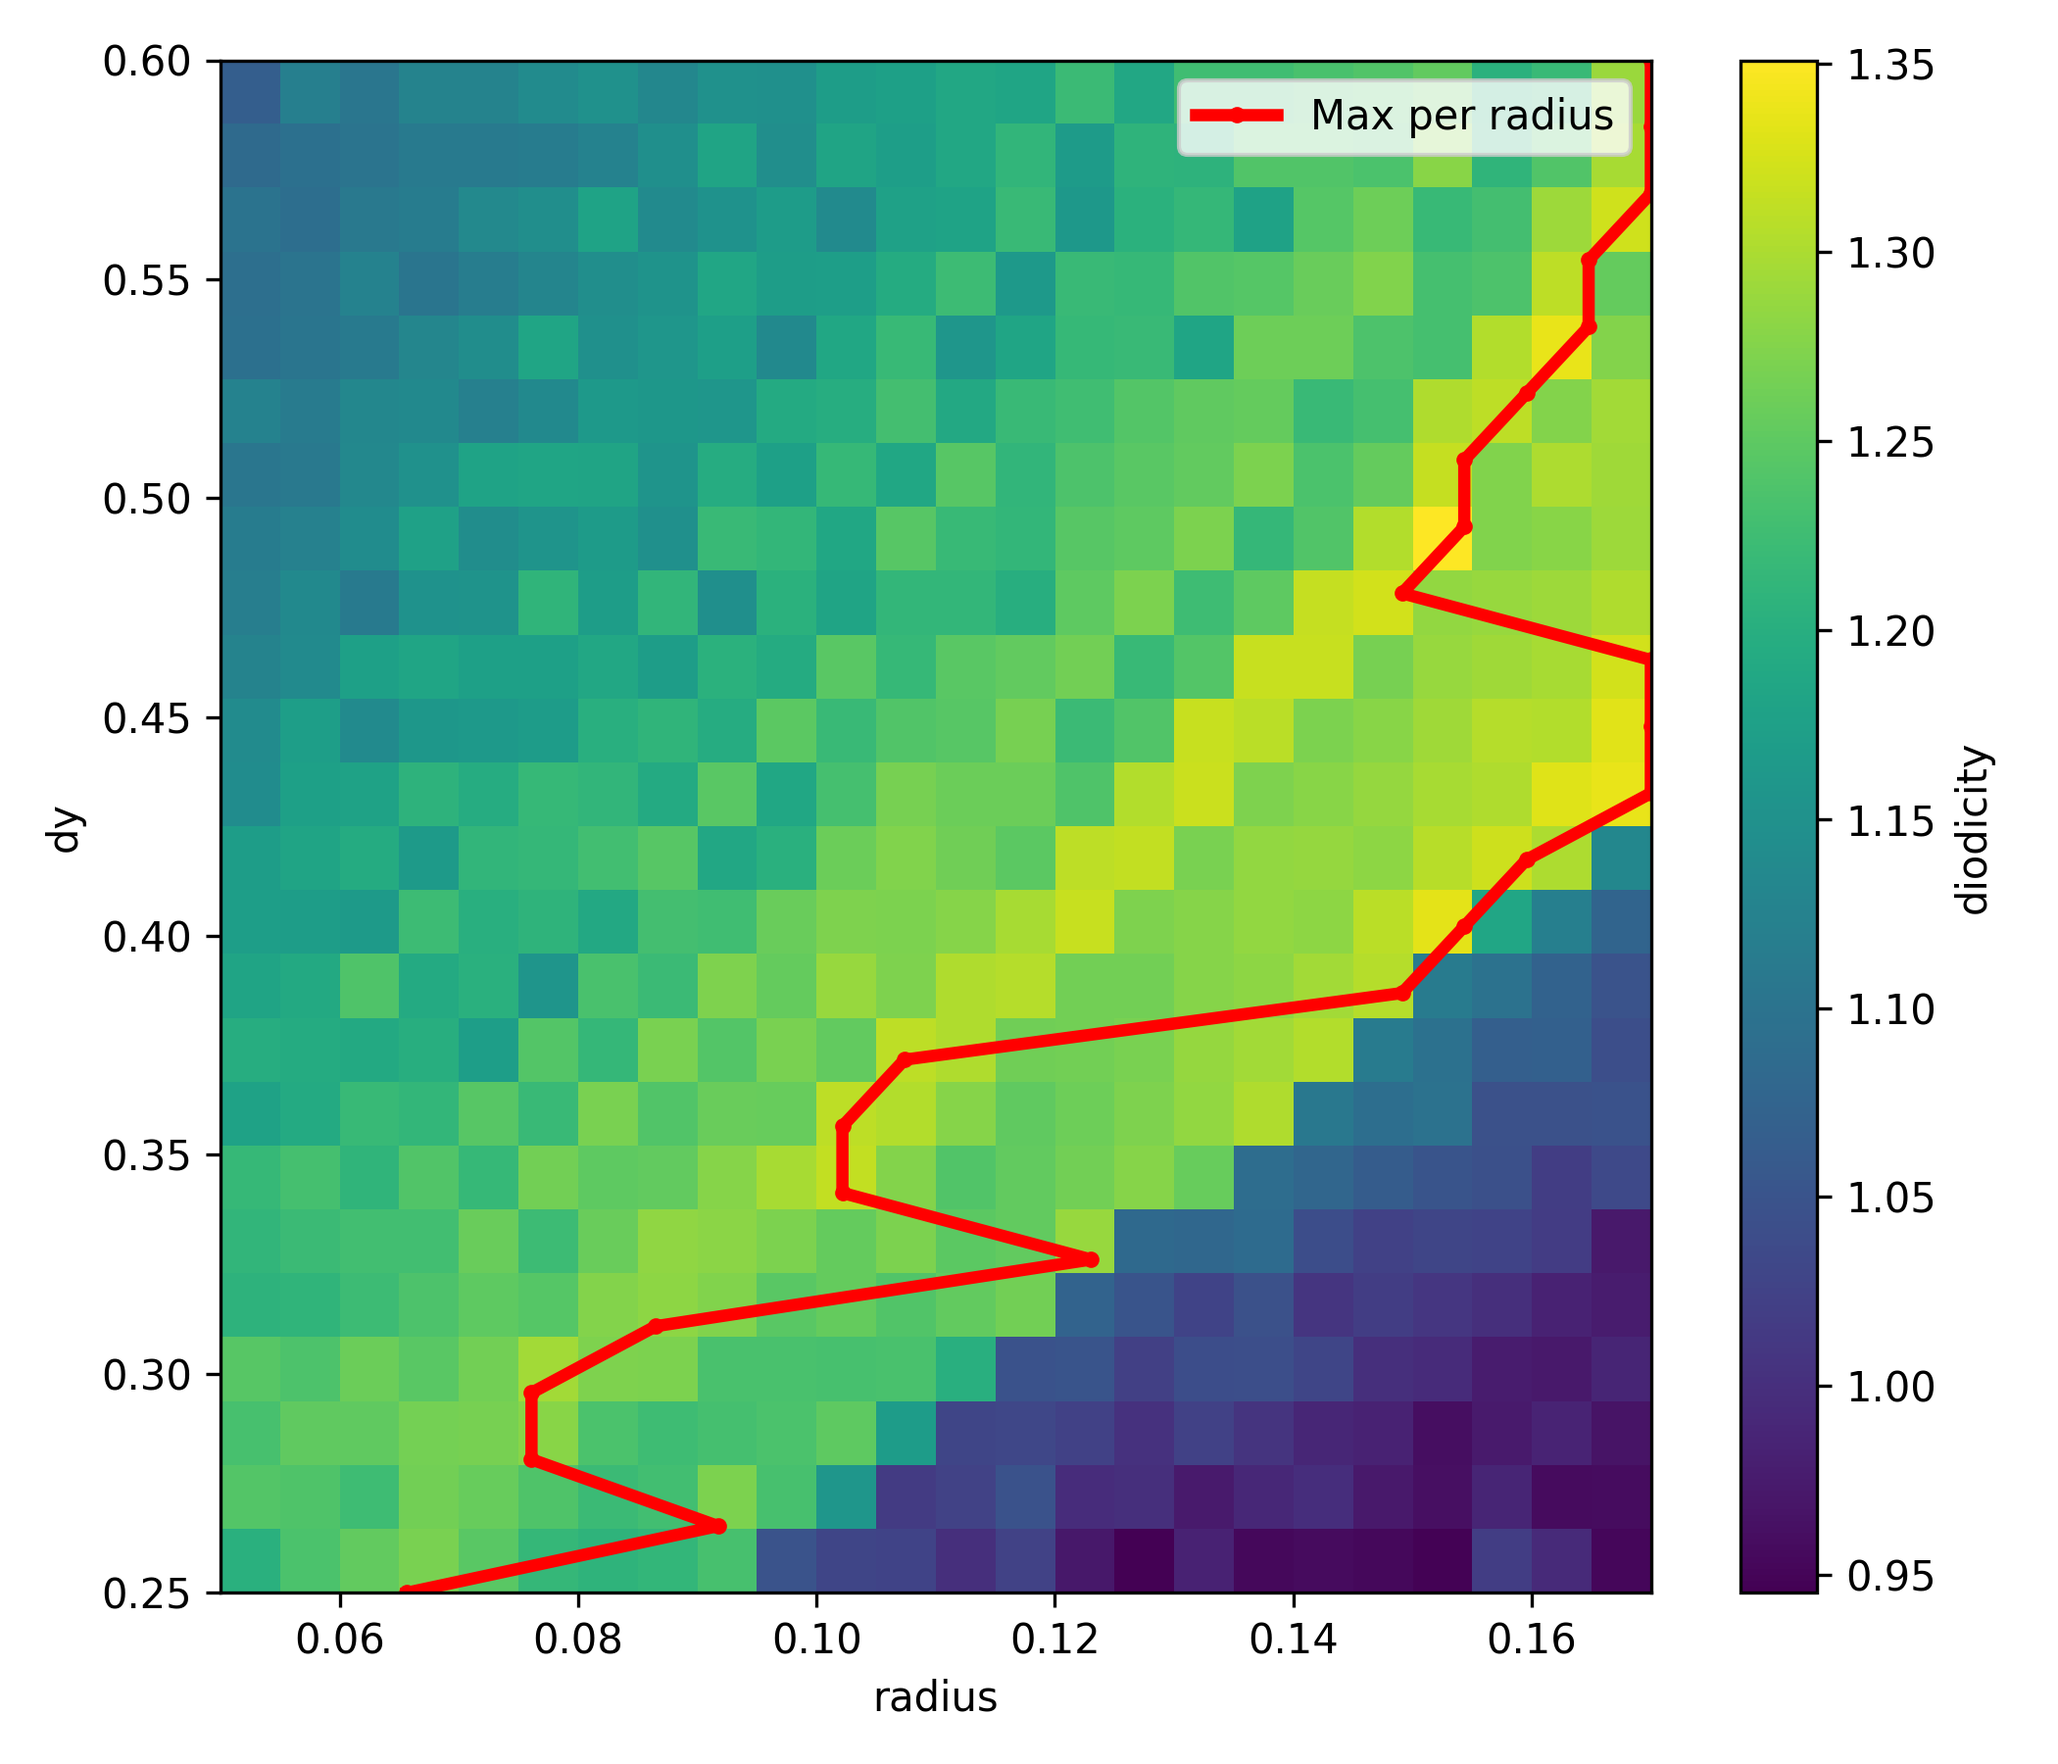
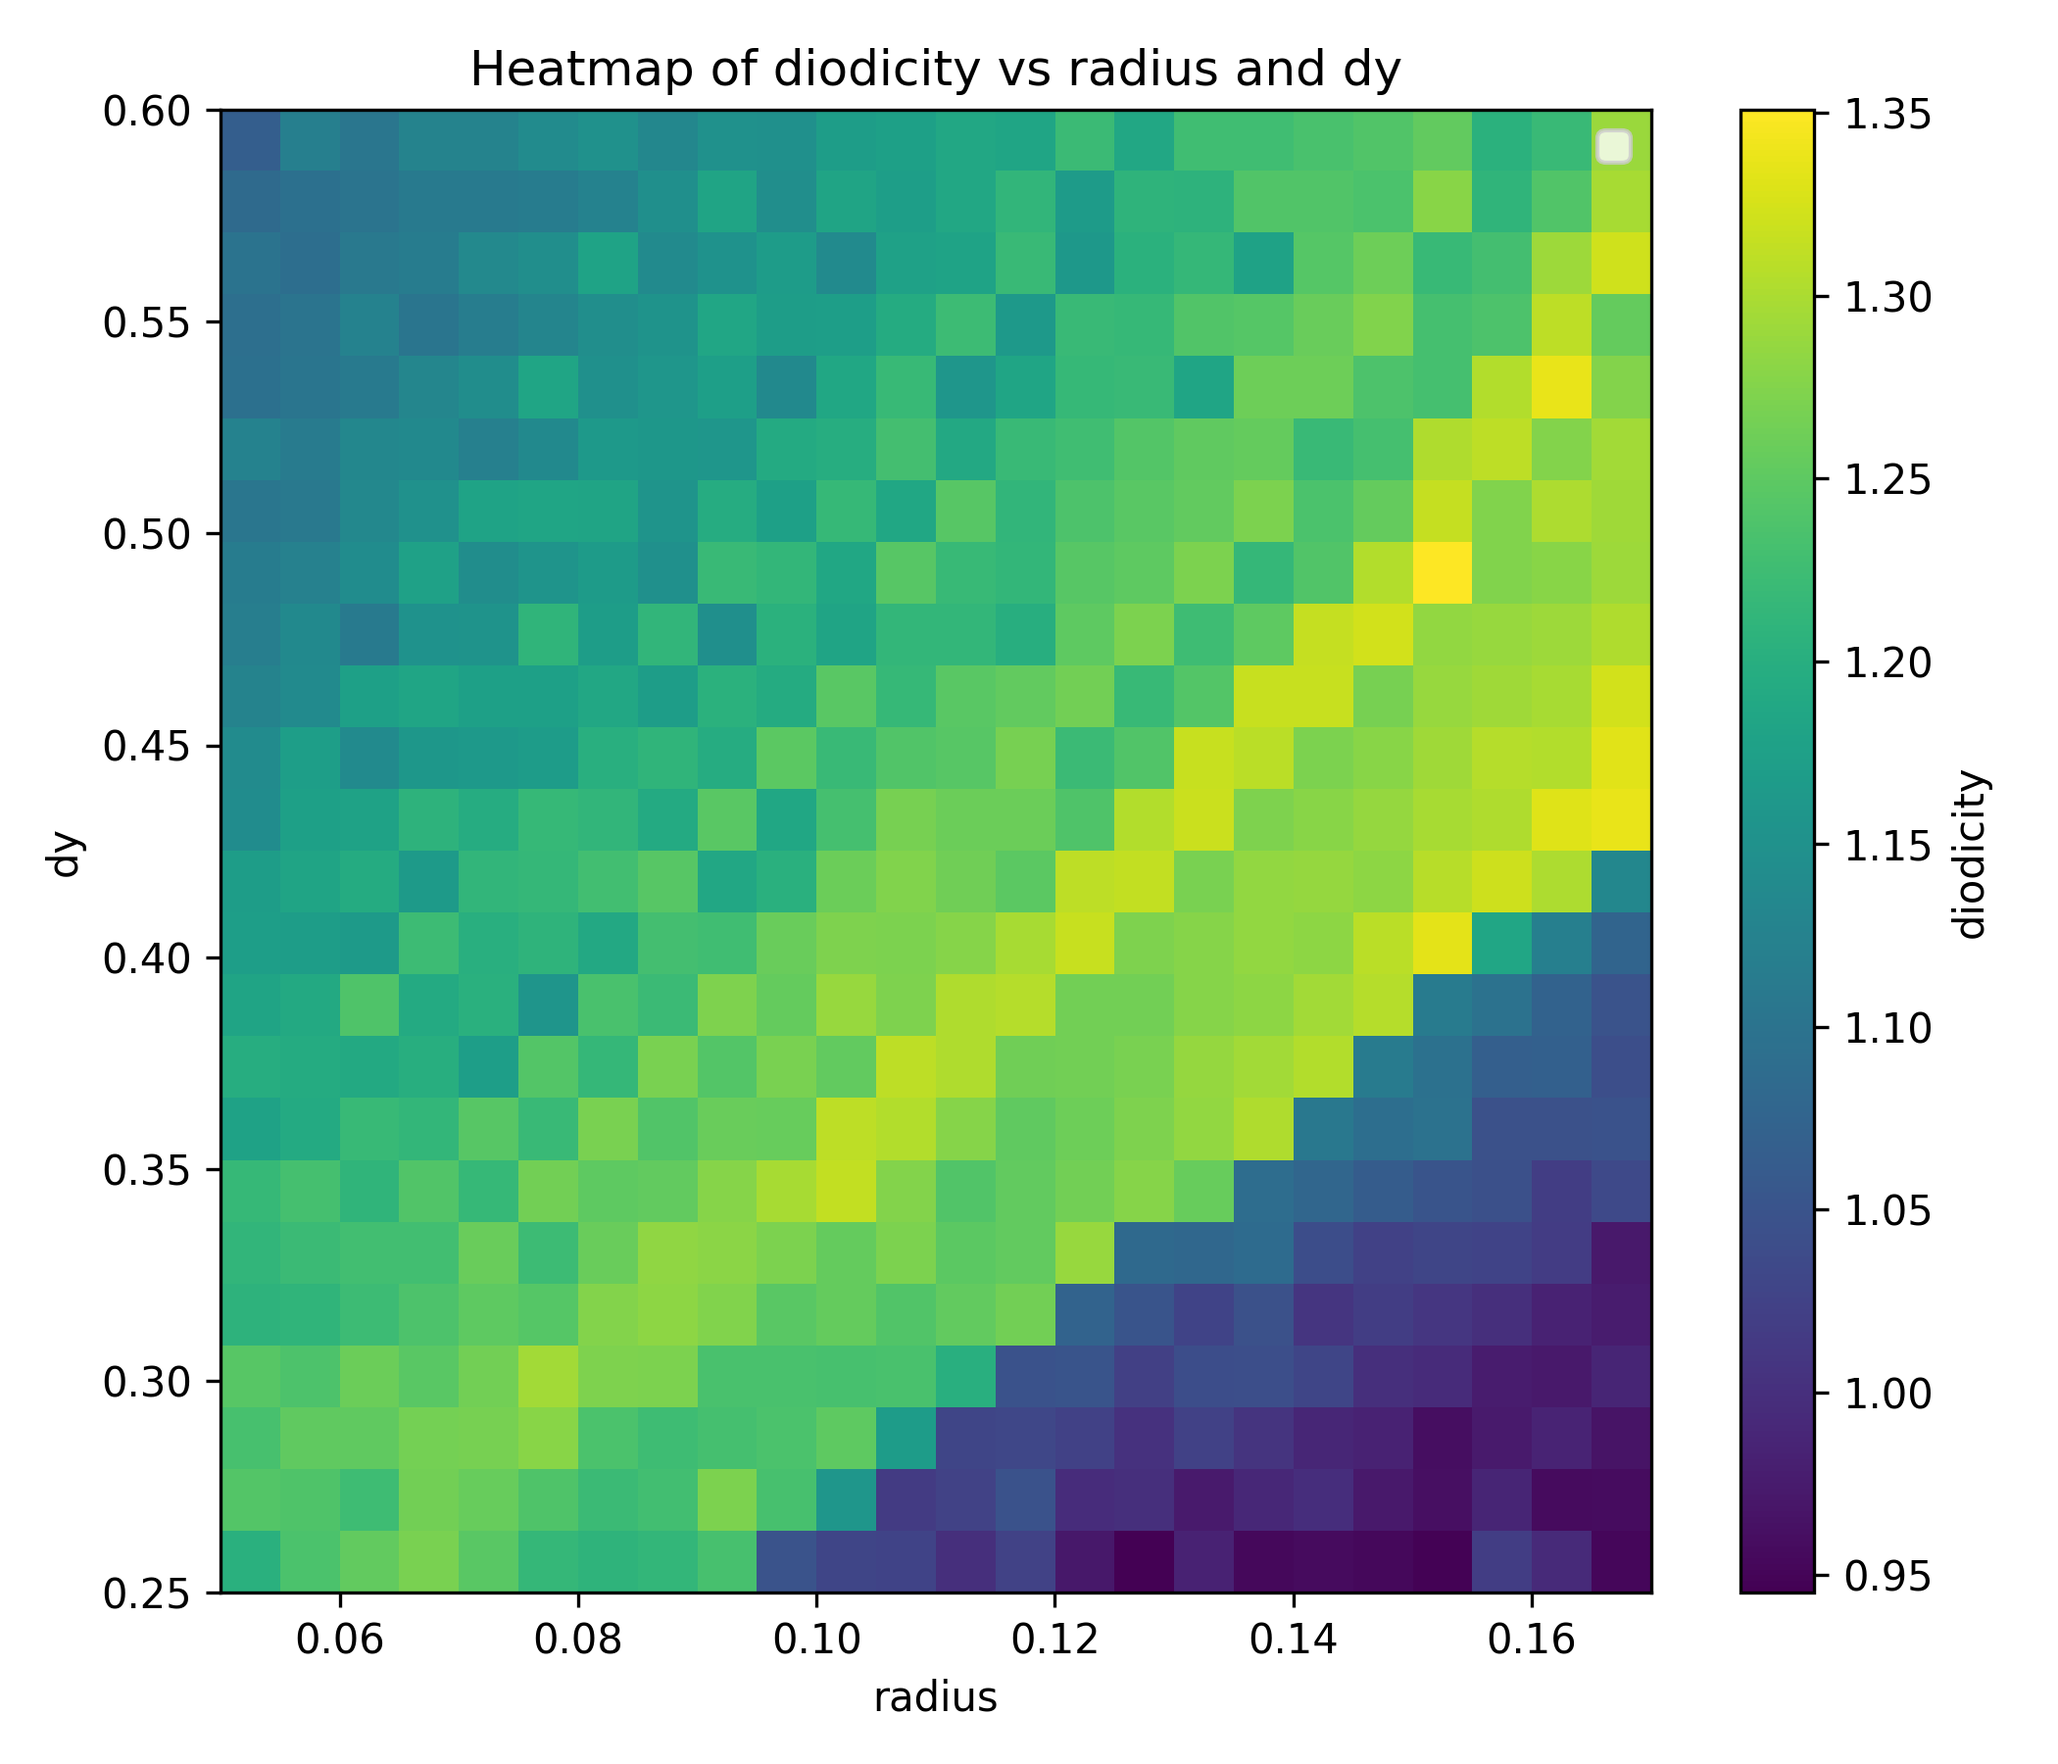
plots

diff --git a/src/Diodicity_sweep_plot.py b/src/Diodicity_sweep_plot.py
@@ -1,0 +1,51 @@
+import pandas as pd
+import matplotlib.pyplot as plt
+
+def plot_8_parameter_sweeps(
+    csv_path,
+    output_path="results/diodicity_8panel.png",
+):
+    # -----------------------------
+    # Load data
+    # -----------------------------
+    df = pd.read_csv(csv_path)
+    df = df.dropna(subset=["diodicity"])
+
+    # -----------------------------
+    # Identify unique parameter sets
+    # -----------------------------
+    param_cols = ["width", "radius", "dy"]
+    param_sets = df[param_cols].drop_duplicates().iloc[:8]
+
+    # -----------------------------
+    # Create figure
+    # -----------------------------
+    fig, axes = plt.subplots(2, 4, figsize=(14, 6), sharey=True)
+    axes = axes.flatten()
+
+    # -----------------------------
+    # Plot each parameter set
+    # -----------------------------
+    for ax, (_, params) in zip(axes, param_sets.iterrows()):
+        w, r, dy = params
+
+        sub = df[
+            (df["width"] == w) &
+            (df["radius"] == r) &
+            (df["dy"] == dy)
+        ].sort_values("timepoint")
+
+        ax.plot(sub["timepoint"], sub["diodicity"])
+        ax.set_title(f"w={w}, r={r}, dy={dy}", fontsize=9)
+        ax.set_xlabel("Time")
+        ax.grid(True, alpha=0.3)
+
+    axes[0].set_ylabel("Diodicity")
+
+    plt.tight_layout()
+    plt.savefig(output_path, dpi=300)
+    plt.close(fig)
+
+
+if __name__ == "__main__":
+    plot_8_parameter_sweeps("results/diodicity_sweep_all.csv")

diff --git a/src/diodicity_width_plot.py b/src/diodicity_width_plot.py
@@ -1,0 +1,48 @@
+import pandas as pd
+import matplotlib.pyplot as plt
+import numpy as np
+
+def plot_diodicity_time(csv_path, output_base="results/diodicity"):
+    # -------------------------
+    # Load data
+    # -------------------------
+    df = pd.read_csv(csv_path)
+
+    # Expect columns: width, radius, dy, timepoint, diodicity
+    required_cols = {"width", "radius", "dy", "timepoint", "diodicity"}
+    if not required_cols.issubset(df.columns):
+        raise ValueError(f"CSV must contain columns: {required_cols}")
+
+    # Drop rows without data
+    df = df.dropna(subset=["timepoint", "diodicity"])
+
+    # -------------------------
+    # Plot
+    # -------------------------
+    fig, ax = plt.subplots(figsize=(7, 5))
+
+    groups = df.groupby(["width", "radius", "dy"])
+    n = len(groups)
+    cmap = plt.get_cmap("viridis")
+
+    for i, ((width, radius, dy), g) in enumerate(groups):
+        ax.plot(
+            g["timepoint"].values,
+            g["diodicity"].values,
+            color=cmap(i / n),
+            label=f"w={width}, r={radius}, dy={dy}",
+        )
+
+    ax.set_xlabel("time")
+    ax.set_ylabel("diodicity")
+    ax.set_title("Diodicity over time for 8 valve configurations")
+    ax.set_ylim((0, 5))
+    ax.legend(fontsize=8)
+
+    plt.tight_layout()
+    plt.savefig(f"{output_base}_time.png", dpi=300)
+    plt.close(fig)
+
+
+if __name__ == "__main__":
+    plot_diodicity_time("results/diodicity_sweep_all.csv")

diff --git a/src/Diodicity_3d_plot.py b/src/Diodicity_3d_plot.py
@@ -60,20 +60,10 @@ def plot_3d_and_heatmap_full_sweep(
         alpha=0.9
     )
 
-    ax.plot(
-        ridge_x,
-        ridge_y,
-        ridge_z,
-        color="red",
-        linewidth=3,
-        marker="o",
-        markersize=3,
-        label="Max per radius"
-    )
-
     ax.set_xlabel(x_col)
     ax.set_ylabel(y_col)
     ax.set_zlabel(z_col)
+    ax.set_title("3D plot of diodicity vs radius and dy")
     ax.legend()
 
     plt.tight_layout()
@@ -93,18 +83,9 @@ def plot_3d_and_heatmap_full_sweep(
         cmap="viridis"
     )
 
-    ax.plot(
-        ridge_x,
-        ridge_y,
-        color="red",
-        linewidth=3,
-        marker="o",
-        markersize=3,
-        label="Max per radius"
-    )
-
     ax.set_xlabel(x_col)
     ax.set_ylabel(y_col)
+    ax.set_title("Heatmap of diodicity vs radius and dy")
 
     plt.colorbar(im, ax=ax, label=z_col)
     ax.legend()
